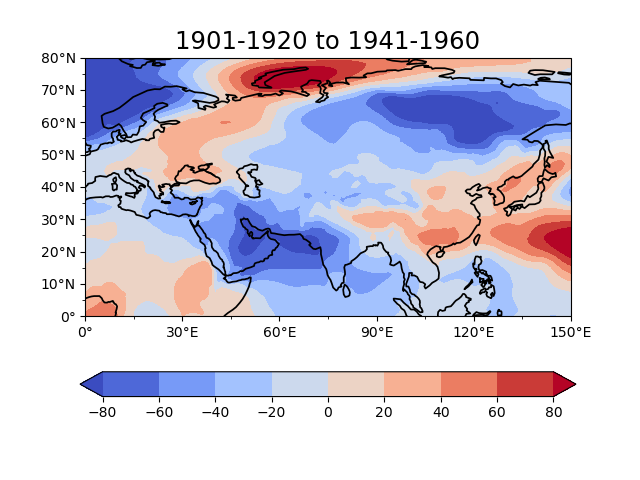
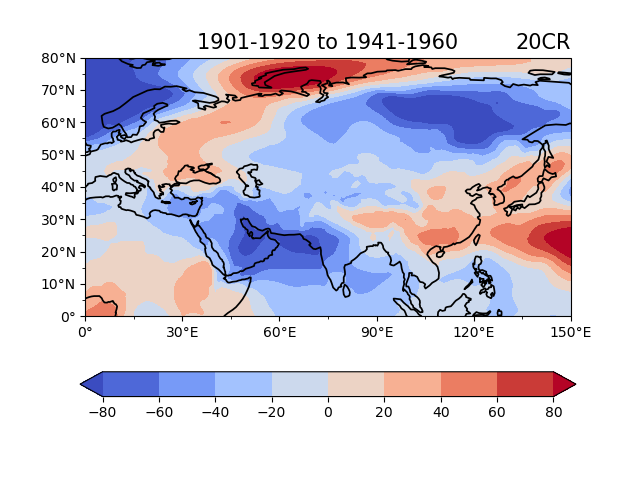
dell update 231211

Changed region(s): [[0.2812, 0.0625, 0.75, 0.125], [0.8125, 0.0625, 0.9062, 0.125]]

diff --git a/paint/paint_CR20_PSL_JJAS_long_term_diff_1900_1960_231208.py b/paint/paint_CR20_PSL_JJAS_long_term_diff_1900_1960_231208.py
@@ -7,7 +7,8 @@ import numpy as np
 import sys
 import matplotlib.pyplot as plt
 
-module_path = '/Users/sunweihao/local_code/module'
+#module_path = '/Users/sunweihao/local_code/module'
+module_path = '/home/sun/local_code/module'
 sys.path.append(module_path)
 
 from module_sun import set_cartopy_tick
@@ -15,7 +16,8 @@ from module_sun import set_cartopy_tick
 periodA_1 = 1890 ; periodA_2 = 1920
 periodB_1 = 1940 ; periodB_2 = 1960
 
-file_path = '/Volumes/samssd/'
+#file_path = '/Volumes/samssd/'
+file_path = '/mnt/e/'
 file_name = 'prmsl.mon.mean.nc'
 
 f0 = xr.open_dataset(file_path + file_name)
@@ -89,7 +91,7 @@ def plot_slp_changes_two_period(data, ref_file, plot_name):
     ax.coastlines(resolution='110m', lw=1.25)
 
     ax.set_title('1901-1920 to 1941-1960',fontsize=15)
-    ax.set_title('ERA20C',loc='right', fontsize=15)
+    ax.set_title('20CR',loc='right', fontsize=15)
 
     #add_vector_legend(ax=ax, q=q, speed=0.25)
     plt.colorbar(im, orientation='horizontal')

diff --git a/paint/paint_ERA20C_PSL_JJAS_long_term_diff_1900_1960_231208.py b/paint/paint_ERA20C_PSL_JJAS_long_term_diff_1900_1960_231208.py
@@ -7,7 +7,7 @@ import numpy as np
 import sys
 import matplotlib.pyplot as plt
 
-module_path = '/Users/sunweihao/local_code/module'
+module_path = '/home/sun/local_code/module'
 sys.path.append(module_path)
 
 from module_sun import set_cartopy_tick
@@ -15,7 +15,8 @@ from module_sun import set_cartopy_tick
 periodA_1 = 1900 ; periodA_2 = 1920
 periodB_1 = 1940 ; periodB_2 = 1960
 
-file_path = '/Volumes/samssd/ERA20C/'
+#file_path = '/Volumes/samssd/ERA20C/'
+file_path = '/mnt/e/ERA20C/'
 file_name = 'ERA20C_PSL_monthly_1900_2010.nc'
 
 f0 = xr.open_dataset(file_path + file_name, engine='netcdf4')
